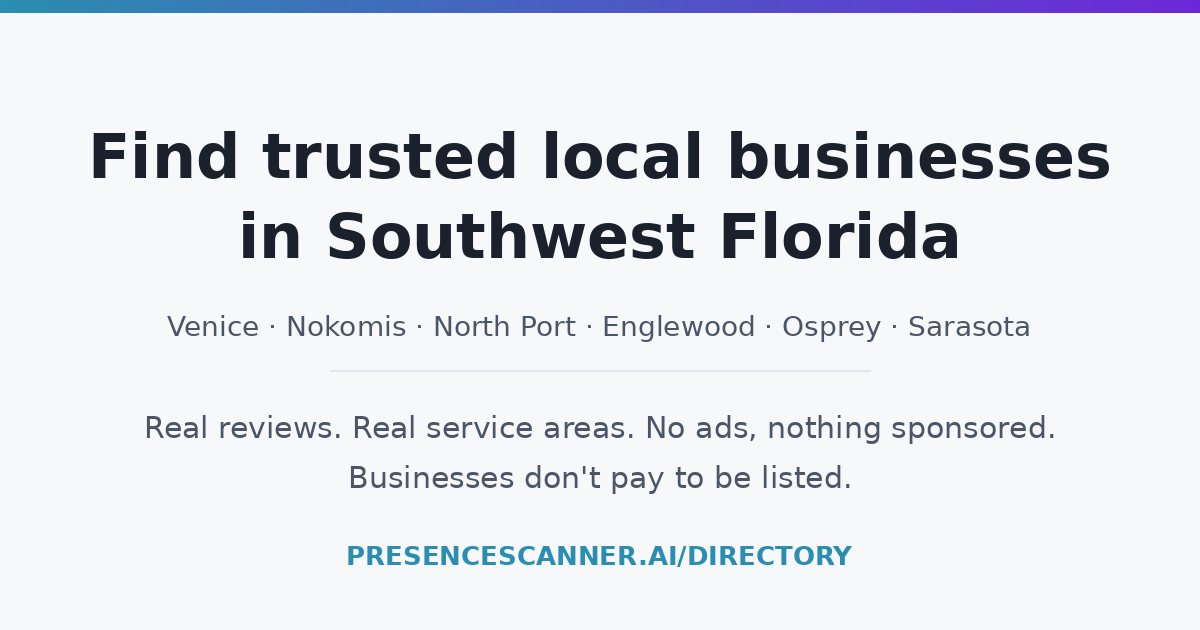
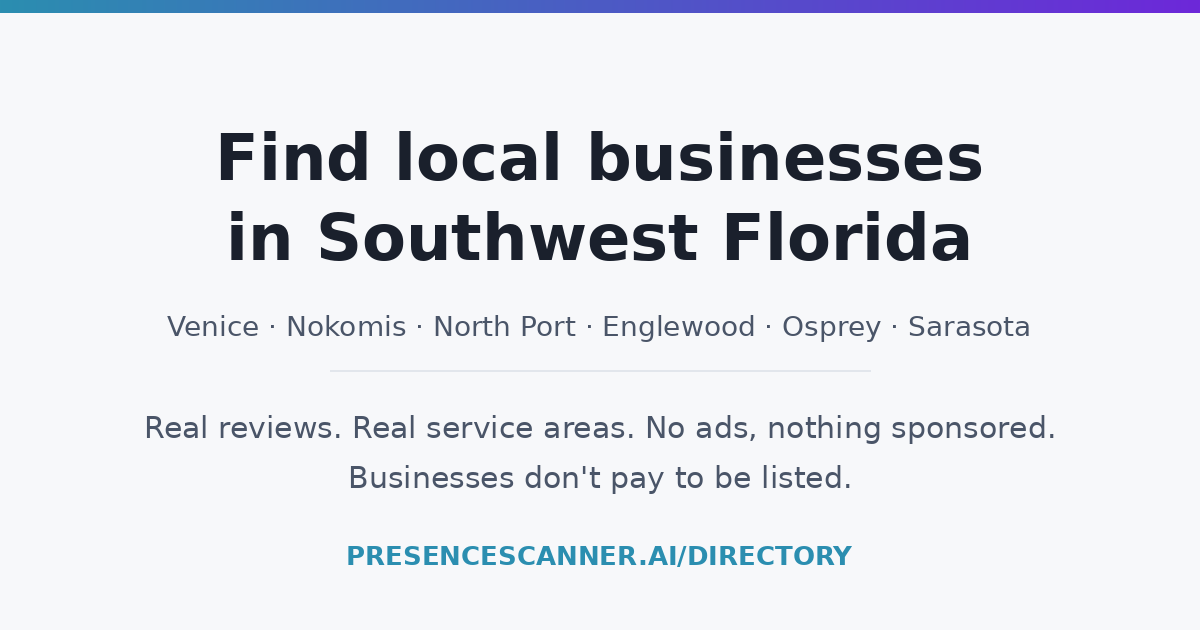
Add files via upload

Changed region(s): [[0.0617, 0.2111, 0.925, 0.3016], [0.185, 0.3317, 0.8325, 0.4222]]

diff --git a/public/how-it-works.html b/public/how-it-works.html
@@ -43,7 +43,7 @@
   "@type": "FAQPage",
   "mainEntity": [
     {"@type":"Question","name":"What is the PresenceScanner directory?","acceptedAnswer":{"@type":"Answer","text":"PresenceScanner is a free directory of local businesses in Southwest Florida. Each listed business gets its own professional web page, hand-built to be found on Google and by AI search tools like ChatGPT. There is no cost and no advertising. The business owner provides their details through a short form, and the page is built from that information, then sent straight to them. If any detail needs correcting, it is updated right away."}},
-    {"@type":"Question","name":"Is a directory listing really free?","acceptedAnswer":{"@type":"Answer","text":"Yes. A professional directory page costs nothing, contains no ads, and has no catch. Pages are built by hand for local businesses in the Southwest Florida community. The goal is to help neighbors find trusted local services and to help good local businesses get found online, including in AI search results."}},
+    {"@type":"Question","name":"Is a directory listing really free?","acceptedAnswer":{"@type":"Answer","text":"Yes. A professional directory page costs nothing, contains no ads, and has no catch. Pages are built by hand for local businesses in the Southwest Florida community. The goal is to help neighbors find local services and to help good local businesses get found online, including in AI search results."}},
     {"@type":"Question","name":"How does a directory page help my business get found?","acceptedAnswer":{"@type":"Answer","text":"Each page is built with structured data (schema) and clear, answer-first content that Google and AI tools read and cite. Pages with FAQ schema and question-shaped content have a substantially higher chance of being quoted in AI answers, because AI systems extract self-contained question-and-answer pairs directly. That makes your business easier to surface when a customer searches or asks an AI for a local recommendation."}},
     {"@type":"Question","name":"How do I get listed in the directory?","acceptedAnswer":{"@type":"Answer","text":"Fill out the short listing form, which takes about three minutes. The more specific detail you give about what you do and what makes you different, the better your page performs. Each listing is reviewed personally, then the page is built from your details and sent straight to you with your page link to share. If any detail needs correcting, just say so and it is updated right away."}},
     {"@type":"Question","name":"Where should I share my directory page once I am listed?","acceptedAnswer":{"@type":"Answer","text":"Share your page link anywhere customers look: your Facebook posts and bio, business cards, email signature, texts, and your Google Business Profile. On Facebook, place the link in the first comment rather than the post body, because posts with outside links in the body are shown to fewer people. Your page also works as your professional web presence if you do not have a website."}},
@@ -168,7 +168,7 @@
     <p class="q">What's the single most important thing I can do to get found?</p>
     <p class="a">Google reviews, by far. A steady flow of real, recent reviews is a top factor in how Google ranks a business and how AI tools decide which to recommend. A business with many fresh reviews gets recommended over a similar business with few. Gather them honestly &mdash; ask every customer, never gate or incentivize &mdash; to stay within platform rules.</p>
     <p class="q">Is a listing really free?</p>
-    <p class="a">Yes &mdash; a professional page, no cost, no ads, no catch. Pages are hand-built for local businesses in the community, to help neighbors find trusted local services and help good businesses get found online.</p>
+    <p class="a">Yes &mdash; a professional page, no cost, no ads, no catch. Pages are hand-built for local businesses in the community, to help neighbors find local services and help good businesses get found online.</p>
   </div>
 
   <div class="join">

diff --git a/public/directory.html b/public/directory.html
@@ -13,10 +13,10 @@
 <meta charset="UTF-8">
 <meta name="viewport" content="width=device-width, initial-scale=1.0">
 <title>Local Business Directory &mdash; SW Florida | PresenceScanner</title>
-<meta name="description" content="A free directory of trusted local businesses across Venice, North Port, Sarasota and Southwest Florida. Roofing, home inspection, cleaning and more.">
+<meta name="description" content="A free directory of local businesses across Venice, North Port, Sarasota and Southwest Florida. Roofing, home inspection, cleaning and more.">
 <link rel="canonical" href="https://www.presencescanner.ai/directory">
 <meta property="og:title" content="Local Business Directory — Southwest Florida | PresenceScanner">
-<meta property="og:description" content="Free directory of trusted local businesses across Southwest Florida. Get your own free listing.">
+<meta property="og:description" content="Free directory of local businesses across Southwest Florida. Get your own free listing.">
 <meta property="og:type" content="website">
 <meta property="og:image" content="https://www.presencescanner.ai/og-directory.png">
 <meta property="og:image:width" content="1200">
@@ -32,7 +32,7 @@
   "@context": "https://schema.org",
   "@type": "CollectionPage",
   "name": "PresenceScanner Local Business Directory",
-  "description": "A free directory of trusted local businesses across Venice, North Port, Sarasota, and Southwest Florida.",
+  "description": "A free directory of local businesses across Venice, North Port, Sarasota, and Southwest Florida.",
   "url": "https://www.presencescanner.ai/directory",
   "hasPart": [
     {
@@ -543,7 +543,7 @@
 
   <div class="what">
     <h2>What is this directory?</h2>
-    <p>A free, hand-built directory of local businesses across Southwest Florida. It's here to help neighbors find trusted local services, and to help good local businesses get found online &mdash; on Google and in AI search. There's no cost to be listed, and no ads.</p>
+    <p>A free, hand-built directory of local businesses across Southwest Florida. It's here to help neighbors find local services, and to help good local businesses get found online &mdash; on Google and in AI search. There's no cost to be listed, and no ads.</p>
   </div>
 
   <div style="text-align:center;margin:24px 0 0;">

diff --git a/public/about.html b/public/about.html
@@ -45,7 +45,7 @@
     {"@type":"Question","name":"Who is behind the PresenceScanner directory?","acceptedAnswer":{"@type":"Answer","text":"PresenceScanner was built by Michael Putnam, a small business owner in Nokomis, Florida, who runs a handyman business, a house cleaning business, and a real estate business locally. He built and paid for the directory himself to help other Southwest Florida businesses get found online, drawing on 15 years of hands-on experience with Google and local search."}},
     {"@type":"Question","name":"Is the PresenceScanner directory trustworthy or a scam?","acceptedAnswer":{"@type":"Answer","text":"It is a genuine free service, not a scam. The directory is run by a local business owner with a real name, real local businesses, and a public track record in the community. Listings are free with no ads and no obligation. Your page is built from the details you provide and sent straight to you, and you are never charged for a listing."}},
     {"@type":"Question","name":"Why is the directory free? What's the catch?","acceptedAnswer":{"@type":"Answer","text":"There is no catch on the listing itself. Free professional pages help the whole local community get found, which is the mission. Optional paid help, such as gathering reviews or managing a Google Business Profile, is available only if a business asks for it. The free directory page never requires payment."}},
-    {"@type":"Question","name":"What area does PresenceScanner serve?","acceptedAnswer":{"@type":"Answer","text":"PresenceScanner focuses on Southwest Florida, including Venice, Nokomis, Osprey, Sarasota, North Port, Port Charlotte, and Englewood. It lists local businesses of all kinds, from trades and home services to restaurants and shops, to help neighbors find trusted local providers."}}
+    {"@type":"Question","name":"What area does PresenceScanner serve?","acceptedAnswer":{"@type":"Answer","text":"PresenceScanner focuses on Southwest Florida, including Venice, Nokomis, Osprey, Sarasota, North Port, Port Charlotte, and Englewood. It lists local businesses of all kinds, from trades and home services to restaurants and shops, to help neighbors find local providers."}}
   ]
 }
 </script>
